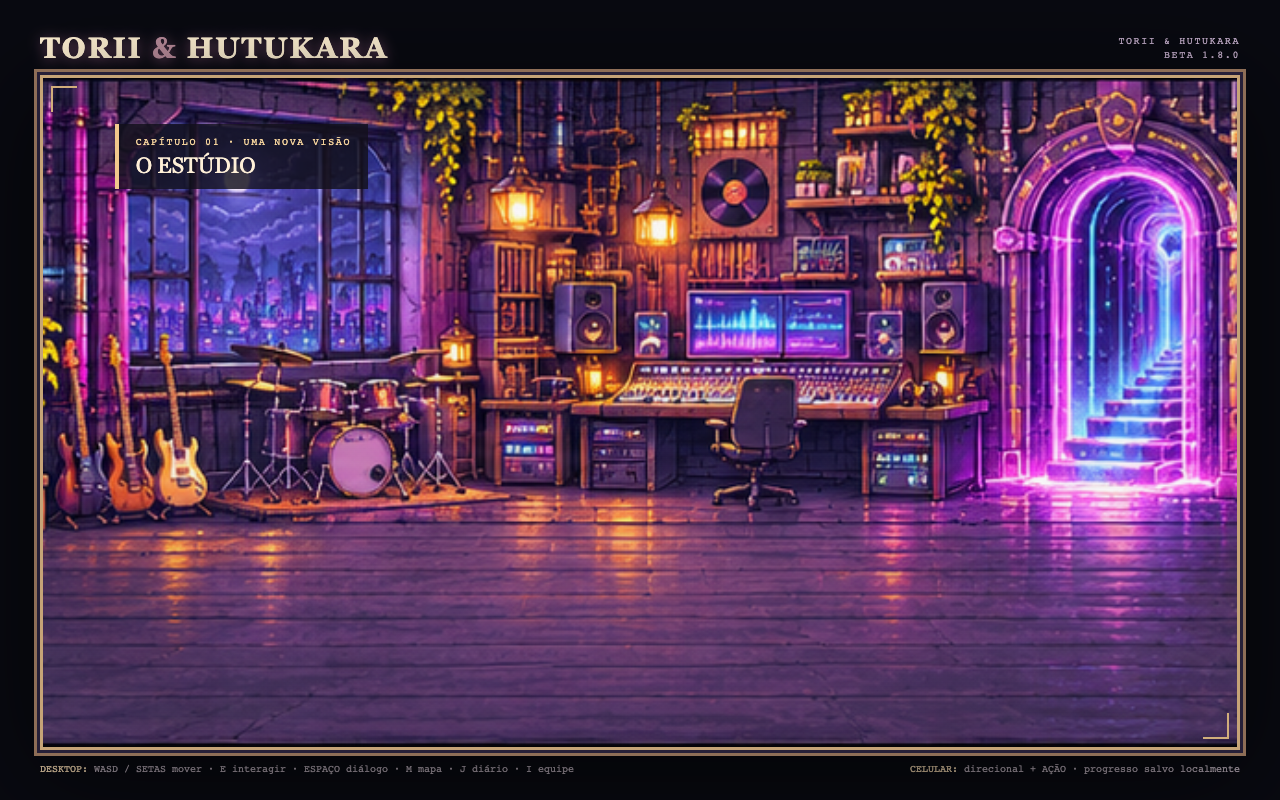
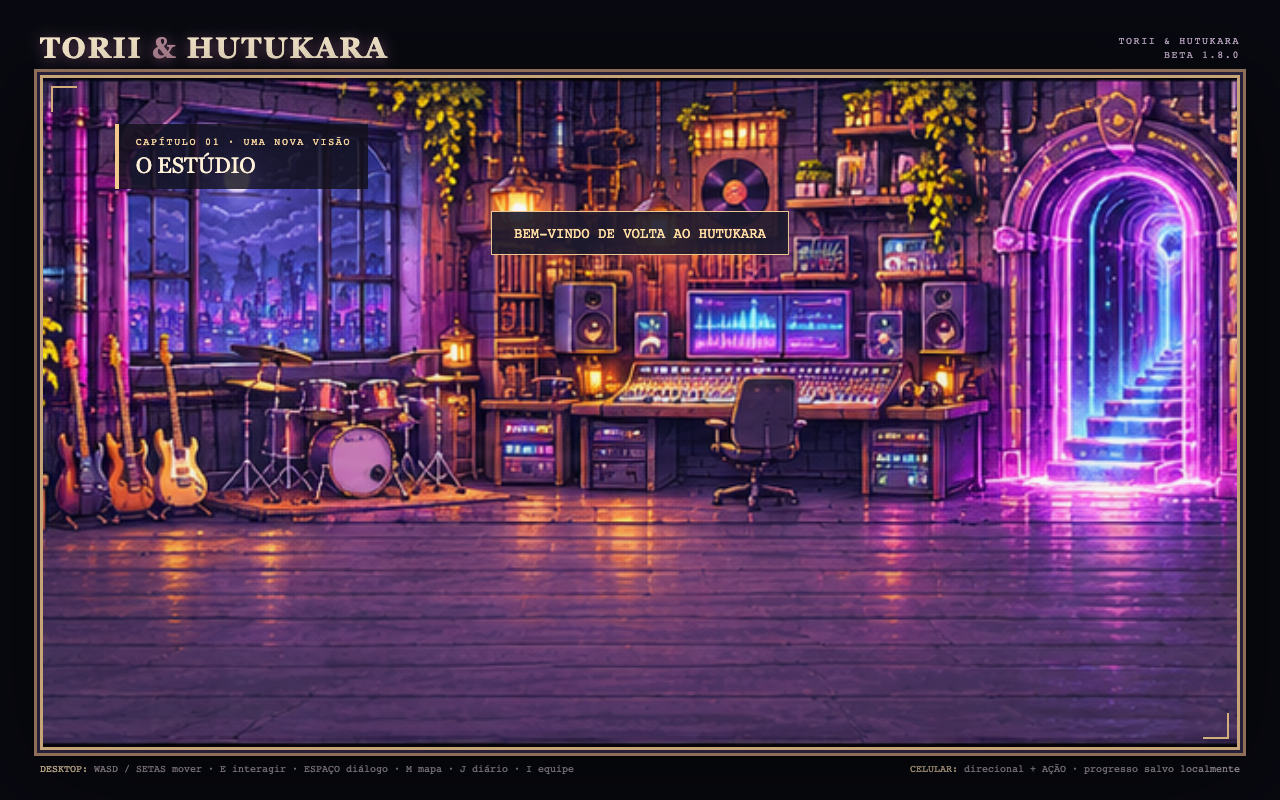
fix: recover legacy studio saves from the vertical sofa footprint

Changed region(s): [[0.375, 0.25, 0.625, 0.3438]]

diff --git a/game/source/chapter-03/world_polish_v1.js b/game/source/chapter-03/world_polish_v1.js
@@ -7,6 +7,18 @@ const WorldPolishV1 = {
     return this.images[key];
   },
   ready() { return Promise.all(['sofa_vertical', 'plant_potted'].map(key => this.image(key).decode())); },
+  repairStudioSpawn() {
+    // A pre-1.8 save may stand on tiles newly occupied by the vertical seat.
+    // Repair only that changed footprint; ordinary positions stay exact.
+    if (G?.area !== 'studio' || !current?.worldPolishV1 ||
+        G.x < 1.7 || G.x > 5.3 || G.y < 5.7 || G.y > 12.3 || canBody121(G.x, G.y)) return false;
+    const safe = safeSpawn121(G.x, G.y);
+    if (!safe) return false;
+    G.x = safe.x; G.y = safe.y; trail = []; resetMotion10();
+    cam.x = current.w * T < VW ? (current.w * T - VW) / 2 : clamp(G.x * T - VW / 2, 0, current.w * T - VW);
+    cam.y = current.h * T < VH ? (current.h * T - VH) / 2 : clamp(G.y * T - VH / 2, 0, current.h * T - VH);
+    return true;
+  },
   installStudio() {
     const studio = areas.studio;
     if (!studio || studio.worldPolishV1) return;
@@ -32,6 +44,8 @@ const WorldPolishV1 = {
 };
 const polishBuildMapsV1 = buildMaps;
 buildMaps = function(...args) { const result = polishBuildMapsV1(...args); WorldPolishV1.installStudio(); return result; };
+const polishSetAreaV1 = setArea;
+setArea = function(...args) { const result = polishSetAreaV1(...args); WorldPolishV1.repairStudioSpawn(); return result; };
 const polishDrawPropV1 = drawProp;
 drawProp = function(p, cx, cy) {
   if (G?.area === 'studio') {

diff --git a/qa/beta-1.8.0/PLAYTEST.md b/qa/beta-1.8.0/PLAYTEST.md
@@ -1,13 +1,15 @@
 # Beta1.8 · revisão do mundo vivo
 
[2 lines of base64/hex data omitted]
 
 -142/142 verificações estáticas;24checks do estado anterior dos protagonistas,10 da locomocão nova e16grupos da IA.
 - Revisão independente:50checksNode/VM mais leitura de código e auditoria dos16atlas/ciclos. Corrigidos: cena da floresta fora do novo cinema, filtros do publicador incompletos e Belga preso na bancada após loadcoop. Nenhum achado pendente nessa revisão.
-- Navegador:10checks do estúdio/cinema/gestos;3grupos da IA em todososmapas comNPCs,60segundos simulados por mapa;32sequências da corrida com tecladoP1/GamepadAPI injetadaP2, quatro direções e máscaras;22checksdeinput e20deprogressão/save/coop/diálogo.
+- Navegador:11 checks do estúdio/cinema/gestos;3grupos da IA em todososmapas comNPCs,60segundos simulados por mapa;32sequências da corrida com tecladoP1/GamepadAPI injetadaP2, quatro direções e máscaras;22checksdeinput e20deprogressão/save/coop/diálogo.
 - Regressões:11checksdosprotagonistas,13decenários,72casosdeataquesdosmúsicos,208sequências/48transições dosmúsicos e4checks do site(PC,telefone/tablet emulados e áudio).
 - Capturas reais revisadas: estúdio(vaso/sofá/folga do tapete), cinema desktop, cidade e Belga em sua bancada. O cenário conserva acesso à mesa e saída;25mapas/gates preservados, com allowlist exclusiva da colisão do sofá.
 
 As capturas comprovam apresentação estática. As verificações de corrida medem o encadeamento input→update→pose→draw em passos de60Hz, além de fase equivalente30/60/120Hz no módulo real em VM; não são um benchmark de FPS nem certificação de conforto percebido. Sem nova campanha humana completa ou teste em telefone/controle físico. Novos desenhos preservam os originais, mas têm pequenas variações de detalhe, sobretudo nas máscaras.
 
 ResultadosJSON e validação acompanham esta pasta. Artes,fontes,prompts e limites em [documentação da revisão](../../docs/REVISAO_MUNDO_VIVO_1_8.md).
+
+O teste adicional de `continueGame` carregou saves no interior e na borda da nova colisão do sofá, recuperando corpo/câmera para chão livre. Um save em posição válida permaneceu exato; progresso preservado nos três casos. A correção recebeu revisão independente e as suítes acima foram repetidas no hash final.

diff --git a/docs/REVISAO_MUNDO_VIVO_1_8.md b/docs/REVISAO_MUNDO_VIVO_1_8.md
@@ -4,7 +4,7 @@ Base de integração: main7553828, Beta1.7.1. A revisão atende aos defeitos rel
 
 ## Implementação
 
-- Estúdio: vaso de terracota e planta próprios, sofá redesenhado com encosto a oeste e assentos voltados para o tapete. Reserva física3×6 em(2,6), ordenação pelo contato com o chão. Rotas até mesa/saída continuam verificadas; base histórica não foi editada.
+- Estúdio: vaso de terracota e planta próprios, sofá redesenhado com encosto a oeste e assentos voltados para o tapete. Reserva física3×6 em(2,6), ordenação pelo contato com o chão. Rotas até mesa/saída continuam verificadas; saves antigos dentro do novo sofá são recuperados para chão livre na entrada, preservando posições válidas e progresso. A base histórica não foi editada.
 - Franco/Ryuchi principais:64 intermediários autorados,12 poses por direção/variante e fechamento. Todos128quadros originais de corrida preservados byte a byte. Fase contínua entre caminhada/corrida, dependente do deslocamento real; ciclo520ms separado da contagem de desenhos. Parede/pausa/load/coop possuem verificações próprias.
 - Diálogos: original2172×724 substitui atlas reduzido1086×362 (painéis724×362 em vez de362×181). Floresta tem novo panorama1672×941 sem a borda/fragmento de outro painel da imagem histórica550×200. Fontes1672×941 do deserto preservadas. Escurecimento duplicado removido; contraste do texto permanece na própria interface.
 - NPCs: estados cosméticos separados do save, atenção ao jogador, trabalho, pequenos gestos, percurso local seguro e retorno quando a arte suporta marcha. Sem caminhada frontal deslizando, rotação de foto ou bob do sprite inteiro. Ema/criança/comerciante/arquivista/músico/guardião da cidade recebem24poses novas. Belga é deslocado para fora da bancada da loja. Interações e IDs permanecem os existentes.

diff --git a/assets/protagonistas/v6-locomocao/README.md b/assets/protagonistas/v6-locomocao/README.md
@@ -1,6 +1,6 @@
 # V6 — poses intermediárias de corrida
 
-Produção de 20/11/2026 para Franco e Ryuchi principais. O pacote adiciona quatro poses desenhadas por direção/estado de máscara, mantendo os oito quadros originais V5 em cada ciclo.
+Produção de 20/11/2026 para Franco e Ryuchi principais. O pacote adiciona quatro poses desenhadas por direção/estado de máscara, mantendo os oito quadros originais V5 em cada ciclo. A integração1.8 exercita32combinações de direção/máscara/herói/jogador no pipeline real de input/update/draw; resultados em qa/beta-1.8.0/LOCOMOTION_BROWSER_RESULTS.json.
 
 - 64 poses novas, geradas pela ferramenta embutida `imagegen` a partir dos atlas V5 existentes.
 - Dois atlas RGBA de 3328×2048: 13 colunas × 8 linhas de 256×256.
@@ -12,7 +12,7 @@ Sequência: `V5_0, novo_0-1, V5_1, V5_2, novo_2-3, V5_3, V5_4, novo_4-5, V5_5, V
 
 ## Arquivos
 
-- `atlas/`: atlas candidatos à integração.
+- `atlas/`: atlas integrados à Beta1.8.
 - `manifest.json`: somente os dezesseis registros `run` que substituem a seleção correspondente de V5.
 - `novos/`: quadros novos isolados e normalizados.
 - `originais/`: quatro fontes RGBA da geração, sem sobrescrever as fontes V5.

diff --git a/CHANGELOG.md b/CHANGELOG.md
@@ -1,7 +1,7 @@
 ## [Beta1.8.0] — 2026-11-20
 
-- Planta do estúdio com vaso próprio; sofá vertical junto ao tapete, com colisão e contato com o chão ajustados.
--64quadros novos de corrida para Franco/Ryuchi:12poses por direção e máscara, fase contínua e ciclo520ms; cópiasV5 preservadas.
+- Planta do estúdio com vaso próprio; sofá vertical junto ao tapete, com colisão e contato com o chão ajustados. Carregamento recupera saves antigos que estavam no novo espaço ocupado.
+- 64 quadros novos de corrida para Franco/Ryuchi:12poses por direção e máscara, fase contínua e ciclo520ms; cópiasV5 preservadas.
 - Fundos dos diálogos recuperados das fontes originais, novo panorama da floresta e remoção do escurecimento duplicado; deserto preservado.
 - NPCs com estados de atenção/trabalho/gesto e pequenos percursos seguros quando há arte de marcha.24gestos novos para seis moradoresC1; Belga fora da bancada, sem alterar suas interações.
 - Testes de geometria, ciclo30/60/120Hz, pausa/load/coop, fontes de cinema e callbacks tardios. Evidências finais e limites em `qa/beta-1.8.0/` e [documentação](docs/REVISAO_MUNDO_VIVO_1_8.md).

diff --git a/docs/COORDENACAO_RELEASES.md b/docs/COORDENACAO_RELEASES.md
@@ -4,7 +4,7 @@ Atualizado em 20/11/2026 após a confirmação dos FX no Pages. Reservas de prod
 
 ## Revisão1.8 em integração
 
[2 lines of base64/hex data omitted]
 
 [Resultados e limites](../qa/beta-1.8.0/PLAYTEST.md).
 
